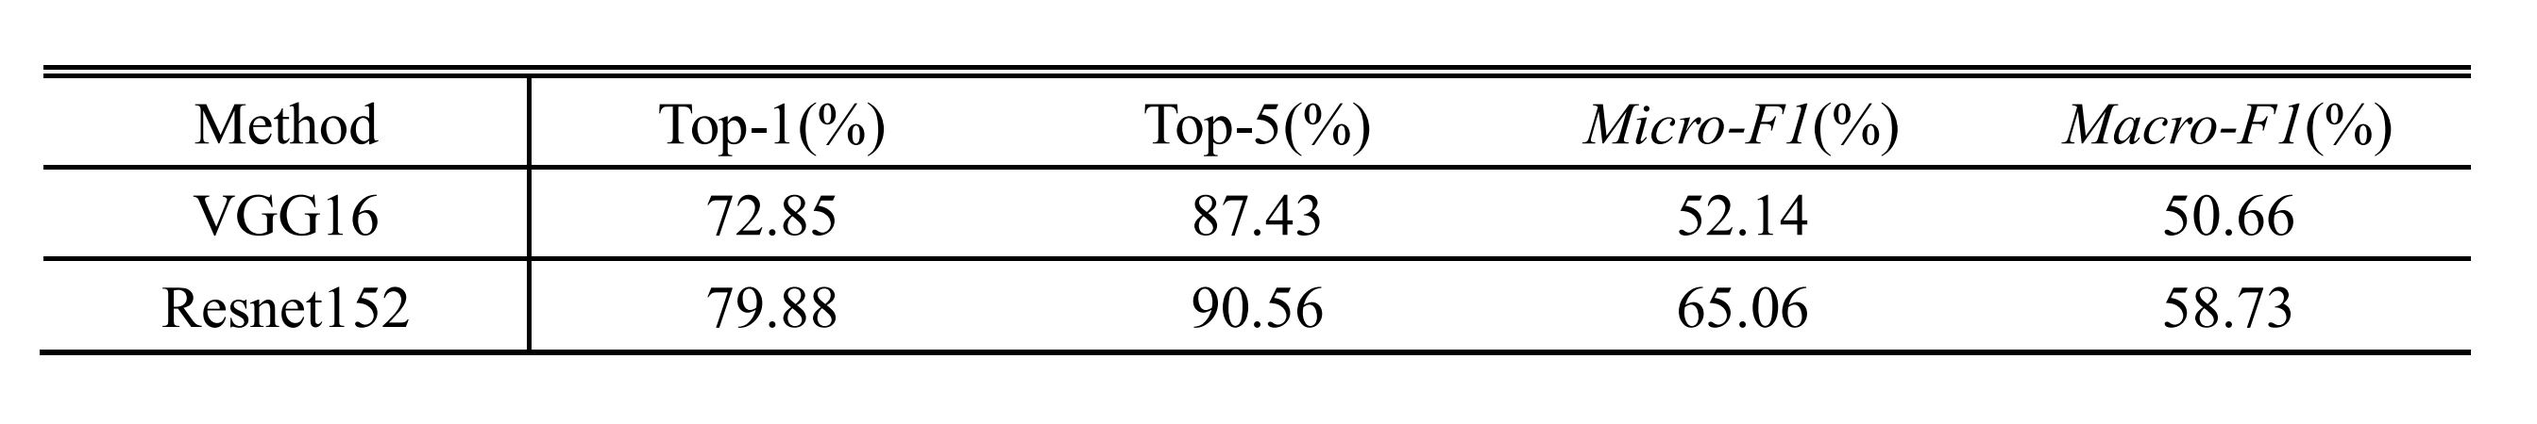
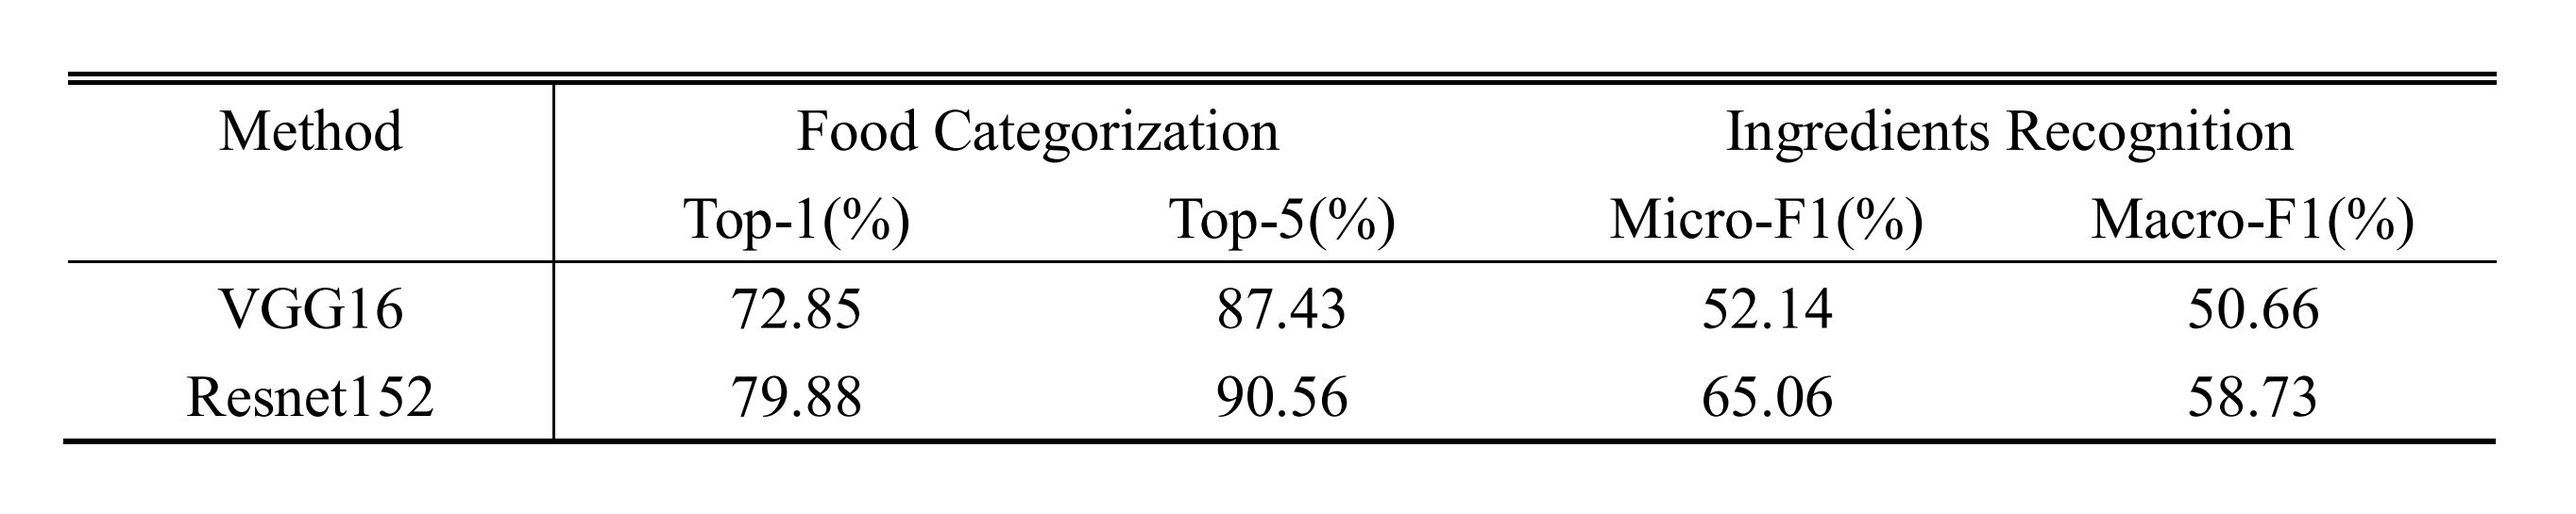
finial

diff --git a/index.html b/index.html
@@ -44,12 +44,13 @@ for Chinese Food</h1>
 
 <!-- Goal -->
 <h3>Abstract</h3>
-这里你们看着写点什么
-One or two sentences on the motivation behind the problem you are solving. One or two sentences describing the approach you took. One or two sentences on the main result you obtained.
+Chinese food is difficult to be categorized, especially its ingredients. Combing food categorization and ingredients recognition is regarded as a useful method to improve the accuracy. In this project, we modified the architecture of two CNN models, VGG16 and Resnet152, to implement the multiple outputs task, and compared their performance.
+<br><br>
+Key words: Chinese food, food categorization, ingredients recognition, VGG, Resnet.
 <br><br>
 <!-- figure -->
 <h3>Introduction</h3>
-Chinese food and it's ingredients are hard to be recognized for several reasons. Firstly, some ingredients are difficult to be recognized, for example, ingredients under soup or sauce. Secondly, they are invisible in flour-made food categories such as dumpling and noodle. Thirdly, many ingredients exhibit large visual variations due to different ways of cutting and cooking. For example, Figure 1 shows six dishes of Chinese food all with pork, though they look totally different. Hence, combing food categorization and ingredients recognition is regarded as a useful method to improve the accuracy.
+Chinese food and it's ingredients are hard to be recognized for several reasons. Firstly, some ingredients are difficult to be recognized, for example, ingredients under soup or sauce. Secondly, they are invisible in flour-made food categories such as dumplings and noodles. Thirdly, many ingredients exhibit large visual variations due to different ways of cutting and cooking. For example, Figure 1 shows six dishes of Chinese food all with pork, though they look totally different. Hence, combing food categorization and ingredients recognition is regarded as a useful method to improve the accuracy.
 <br><br>
 <!-- Main Illustrative Figure --> 
 <div style="text-align: center;">
@@ -64,7 +65,7 @@ Figure 1: Different dishes of Chinese food all with pork.
 <br>
 <h4>Dataset: Vireo 172</h4>
 Chen J. and her group [1] constructed a Chinese food database: Vireo 172, consisting of 172 categories of food and 110,000 images. It also contains 353 different ingredients labels for each image. All the images in the dataset were crawled from Baidu
-and Google image search. The names of food categories, were issued as keywords in Chinese to search engines, and 1,300 images are crawled per food category. Figure 2 shows a part of food categories and the corresponding image.
+and Google image search. The names of food categories, were issued as keywords in Chinese to search engines, and 1,300 images are crawled per food category. Figure 2 shows a part of food categories and the corresponding images.
 <div style="text-align: center;">
 <img style="height: 370px;" alt="" src="172_1.jpg" align = "center"/>
 <br>
@@ -72,8 +73,8 @@ Figure 2: 75 kinds of food categories and the corresponding image.
 </div>
 <br>
 <h4>CNN Model Architecture Design</h4>
-Two CNN models, VGG16[3] and Resnet152[4], are implemented and compared. It's a multiple output task because of the combination of food categorization and ingredients recognition. As a result, the original architecture of VGG16 and Resnet152 need to be modified to apply this case. In terms of design, the major modification is made on the fully connected layers.
-For VGG16, the two tasks share the first fc layers and own two privately layers. There are 4,096 neurons for food categorization, and 1024 neurons for ingredient[1]. For Resnet152, because there is only one fc layer, so the two output is connected to the convolution layers (and avg pool) directly[2].
+Two CNN models, VGG16[3] and Resnet152[4], are implemented and compared. It's a multiple outputs task because of the combination of food categorization and ingredients recognition. As a result, the original architecture of VGG16 and Resnet152 need to be modified to apply this case. In terms of design, the major modification is made on the fully connected layers.
+For VGG16, the two tasks share the first fc layer and own two privately layers. There are 4,096 neurons for food categorization, and 1024 neurons for ingredient[1]. For Resnet152, because there is only one fc layer, the two outputs are connected to the convolution layers (and avg pool) directly[2].
 
 <div style="text-align: center;">
 <img style="height: 200px;" alt="" src="vgg16_1.jpg"  align = "center"/>
@@ -84,8 +85,8 @@ For VGG16, the two tasks share the first fc layers and own two privately layers.
 <h4>Loss Function</h4>
 Relatively, the loss function need to be modified to apply multiple tasks. <br>
 For food categorization, the  multinomial logistic loss function is used and defined as <img style="height: 20px;" alt="" src="l1.jpg"  align = "center"/>, while <img style="height: 20px;" alt="" src="l1_1.jpg"  align = "center"/> is the predicted score of an image n for its ground-truth food label y. <img style="height: 20px;" alt="" src="l1_1.jpg"  align = "center"/> is obtained from softmax activation function, so 0 < <img style="height: 20px;" alt="" src="l1_1.jpg"  align = "center"/> < 1. As a result, L1's value is less than 0. The bigger L1's absolute value is, the less probability a image is corresponding to this label. Log function is used for a quicker convergence.<br>
-For ingredients recognition, the cross-entropy loss function is used and defined as <img style="height: 47px;" alt="" src="l2.jpg"  align = "center"/>, while <img style="height: 20px;" alt="" src="l2_1.jpg"  align = "center"/> is a vector contains 0 and 1 in 353 dimensions, as the ground-truth ingredients for an image n. <img style="height: 20px;" alt="" src="l2_2.jpg"  align = "center"/> denotes the probability of having ingredient category c for an image n, obtained through sigmoid activation function. So <img style="height: 20px;" alt="" src="l2_2.jpg"  align = "center"/> is also between 0 and 1. Similar to L1, L2 is always below 0, and the higher its absolute value is, the closer it's to the ground-truth.<br>
-The overall loss function is defined as <img style="height: 49px;" alt="" src="ls.jpg"  align = "center"/>, combing L1 and L2. <img style="height: 20px;" alt="" src="ls_1.jpg"  align = "center"/> is a parameter used to adjust the importance of food categorization and ingredients recognition. Higher <img style="height: 20px;" alt="" src="ls_1.jpg"  align = "center"/> represents ingredients recognition takes a more importance place in the over loss function. Smaller over function represents better result. The best performance is gotten when <img style="height: 20px;" alt="" src="ls_1.jpg"  align = "center"/> = 0.2 in the practice.
+For ingredients recognition, the cross-entropy loss function is used and defined as <img style="height: 47px;" alt="" src="l2.jpg"  align = "center"/>, while <img style="height: 20px;" alt="" src="l2_1.jpg"  align = "center"/> is a vector contains 0 and 1 in 353 dimensions, as the ground-truth ingredients for an image n. <img style="height: 20px;" alt="" src="l2_2.jpg"  align = "center"/> denotes the probability of having ingredient category c for an image n, obtained through sigmoid activation function. So <img style="height: 20px;" alt="" src="l2_2.jpg"  align = "center"/> is also between 0 and 1. Similar to L1, L2 is always below 0, and the lower its absolute value is, the closer it's to the ground-truth.<br>
+The overall loss function is defined as <img style="height: 49px;" alt="" src="ls.jpg"  align = "center"/>, combing L1 and L2. <img style="height: 20px;" alt="" src="ls_1.jpg"  align = "center"/> is a parameter used to adjust the importance of food categorization and ingredients recognition. Higher <img style="height: 20px;" alt="" src="ls_1.jpg"  align = "center"/> represents ingredients recognition takes a more importance place in the overall loss function.  The best performance is gotten when <img style="height: 20px;" alt="" src="ls_1.jpg"  align = "center"/> = 0.2 in the practice.
 
 
 <br><br>
@@ -93,22 +94,31 @@ The overall loss function is defined as <img style="height: 49px;" alt="" src="l
 <h3>Results</h3>
 Interestingly, VGG16 and Resent152 offer different advantages in different aspects.
 
-<h4>Macro Micro F1 Value</h4>
-这里我来补充
+<h4>Evaluation Method</h4>
+For food categorization, because the ground-truth is a single label, Top-1 and Top-5 accuracy are enough to evaluate the two models. Nevertheless, for ingredients recognition, the ground-truth is a vector in 353 dimensions so that Top-1 or Top-5 accuracy are useless. Each image contains 3 ingredients in average, in which case the ground-truth is almost all zero. Even a model can't recognize any ingredients of a image, the accuracies are still quite high. Macro F1 value and micro F1 value are proposed to evaluate ingredients recognition[5]. Macro value is defined as <img style="height: 43px;" alt="" src="macro.jpg"  align = "center"/>. Macro precision and macro recall are the average of each image's precision and recall. Macro F1 value is the harmonic mean of macro precision and recall. Micro value is defined as <img style="height: 46px;" alt="" src="micro.jpg"  align = "center"/>. Micro precision is that sum of TP and FP divided by sum of TP. Micro recall is that sum of TP and FN divided by sum of TP. Micro F1 value is the harmonic mean of micro precision and recall.
 <h4>Convergence Speed</h4>
-写点什么说明一下
+VGG16 has a better performance in training time and convergence speed. Figure 4 and 5 show the the two models' performance in each epoch: loss function value, food categorization's accuracy, ingredients recognition's macro and micro F1 value, from left to right. On one hand, VGG16's results converge in ten epochs, and get the best result when the 6th epoch. On the other hand, Resnet's results converge over thirty epochs. For each epoch, Resnet152 seems need more time than VGG16. As a result, VGG16's results converge much more quickly than Resnet152.
 <div style="text-align: center;">
 <img style="height: 210px;" alt="" src="cat2.jpg"/>
+<br>Figure 4: VGG16's performance in each epoch.
 <img style="height: 210px;" alt="" src="cat1.jpg"/>
+<br>Figure 5: Resnet's performance in each epoch.
 </div>
-<h4>Accuracy</h4>
-再写点说明说明
+<h4>Performance</h4>
+Table 1 shows results of the two models. For VGG16, the results are not as good as implemented in [1] though the same architecture and loss function are used. One possible reason is some parameters (such as <img style="height: 20px;" alt="" src="ls_1.jpg"  align = "center"/> ) are not best. Resnet152 has a better performance than VGG16 in all evaluation methods. Scores are improved about 10% in average.
 <div style="text-align: center;">
-<img style="height: 110px;" alt="" src="table.jpg"/>
+<img style="height: 130px;" alt="" src="table.jpg"/>
+<br>Table 1: Performance of VGG16 and Resnet152.
 </div>
 <h4>Exhibition</h4>
-把你的图放这里
+Figure 6 shows some results of Resent152. P represents predict (the output) and R represents real (the ground-truth). For food categorization (image 1), there is a error that Yu-Shiang shredded pork is regarded as auteed squid tentacles. However it could really be auteed squid tentacles in human's eyes because they are very similar. For ingredients recognition, some ingredients are really confusing, such as shredded pig ears in image 2 and white sesame in image 3. It's scarcely possible for human to distinguish the two ingredients.
+<div style="text-align: center;">
+<img style="height: 350px;" alt="" src="ex.jpg"/>
+<br>Figure 6: Some results of food categorization and ingredients recognition.
+</div>
 
+<h3>Conclusion</h3>
+We have implemented two CNN models, VGG16 and Resnet152, for Chinese food's categorization and its ingredients recognition, and compared their performance. A dataset, Vireo 172, is used to train and test the models. Models' architectures are modified to adapt to the multiple outputs task. Loss function also combines two outputs. The models have different advantages. VGG16 converges more quickly, which is suited to get results as soon as possible. Resent152 has a better performance in all aspects, suited to get better results. However, food categorization, especially ingredients recognition, is a confusing and difficult task for both computers and humans. There is a long way to go. 
 
 <h3>References</h3>
 [1] Chen, J., & Ngo, C. W. (2016, October). Deep-based ingredient recognition for cooking recipe retrieval. In Proceedings of the 2016 ACM <i> on Multimedia Conference </i> (pp. 32-41). ACM.
@@ -117,10 +127,11 @@ Interestingly, VGG16 and Resent152 offer different advantages in different aspec
 <br>
 [3] Simonyan, K., & Zisserman, A. (2014). Very deep convolutional networks for large-scale image recognition. <i>arXiv preprint arXiv:1409.1556.</i>
 <br>
-[4] He, K., Zhang, X., Ren, S., & Sun, J. (2016). Deep residual learning for image recognition. In <i>CVPR </i> (pp. 770-778).
+[4] He, K., Zhang, X., Ren, S., & Sun, J. (2016). Deep residual learning for image recognition. In <i>CVPR </i> (pp. 770-778).<br>
+[5] Van Asch, V. (2013). Macro-and micro-averaged evaluation measures [[basic draft]].
 
 <br><br><br>
-GitHub link: <a href="https://github.com/wang120332076/cv_project">https://github.com/wang120332076/cv_project</a> 记得把权限公开
+GitHub link: <a href="https://github.com/wang120332076/cv_project">https://github.com/wang120332076/cv_project</a>
   <hr>
   <footer> 
   <p>© Chenhao Wang, Mengfan Wang, Yao Xiao, Yuxian Ye</p>
